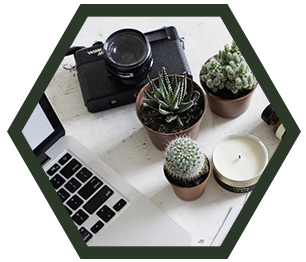
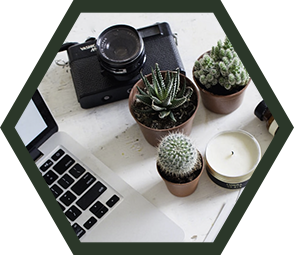
тінь на меню

diff --git a/index.html b/index.html
@@ -16,11 +16,11 @@
         </div>
         <div class="panel menu">
             <ul class="projects">
-                <li class="p1"><a href="#">Інтер-<br>активна<br>книга</a></li>
-                <li class="p2"><a href="#">Інтер-<br>активна<br>книга</a></li>
-                <li class="p3"><a href="#">Інтер-<br>активна<br>книга</a></li>
-                <li class="p4"><a href="#">Інтер-<br>активна<br>книга</a></li>
-                <li class="p5"><a href="#">Інтер-<br>активна<br>книга</a></li>
+                <li class="p1"><span class="shadow"><a href="#"><br>Книга</a></span></li>
+                <li class="p2"><span class="shadow"><a href="#">Моде-<br>лювання</a></span></li>
+                <li class="p3"><span class="shadow"><a href="#"><br>Відео</a></span></li>
+                <li class="p4"><span class="shadow"><a href="#">Стати-<br>стика</a></span></li>
+                <li class="p5"><span class="shadow"><a href="#">Інтер-<br>активна<br>книга</a></span>   </li>
             </ul>
          </div>
         <div class="panel collage">
@@ -30,7 +30,7 @@
 
         </div>
         <div class="panel collage">
-
+            <img src="img/collage2.jpg">
         </div>
         <div class="panel cloud">
             

diff --git a/css/main.css b/css/main.css
@@ -87,8 +87,8 @@ ul.projects {
 }
 
 ul.projects li {
-    width: 304px;
-    height: 266px;
+    width: 294px;
+    height: 255px;
     color: white;
     text-align: center;
     
@@ -98,24 +98,36 @@ ul.projects li {
 }
 
 .menu a, .menu a:visited {
-    width: 304px;
-    height: 266px;
+    width: 294px;
+    height: 255px;
     display: inline-block;
-    margin: 42px 0;
+    margin: 27px 0 0 -14px;
     color: white;
 }
 
-.menu a {
+.menu a, .menu .shadow {
     opacity: 0;
 }
 
-.menu a:hover {
+.menu a:hover, .menu .shadow:hover {
     opacity: 1;
 }
 
 ul.projects li {
     position: absolute;
     display: inline-block;
+}
+ul.projects li .shadow {
+    width: 274px;
+    height: 237px;
+    position: absolute;
+    top: 10px;
+    left: 13px;
+    background-image: url(../img/ps.png);
+}
+
+ul.projects li a {
+    z-index: 100;
 }
 
 ul.projects .p1 {
@@ -124,6 +136,7 @@ ul.projects .p1 {
     margin: 0 -152px;
     top: 40px;
 }
+
 ul.projects .p2 {
     background-image: url(../img/p2.png);
     left: 30px;
@@ -149,4 +162,14 @@ ul.projects .p5 {
     .header ul {
         width: 88%;
     }
+}
+
+.team {
+    height: 960px;
+    background-color: #2b3729;
+    background-repeat: no-repeat;
+    background-origin: border-box;
+    background-position: center;
+    background-position-x: 50%; 
+    position: relative;
 }
